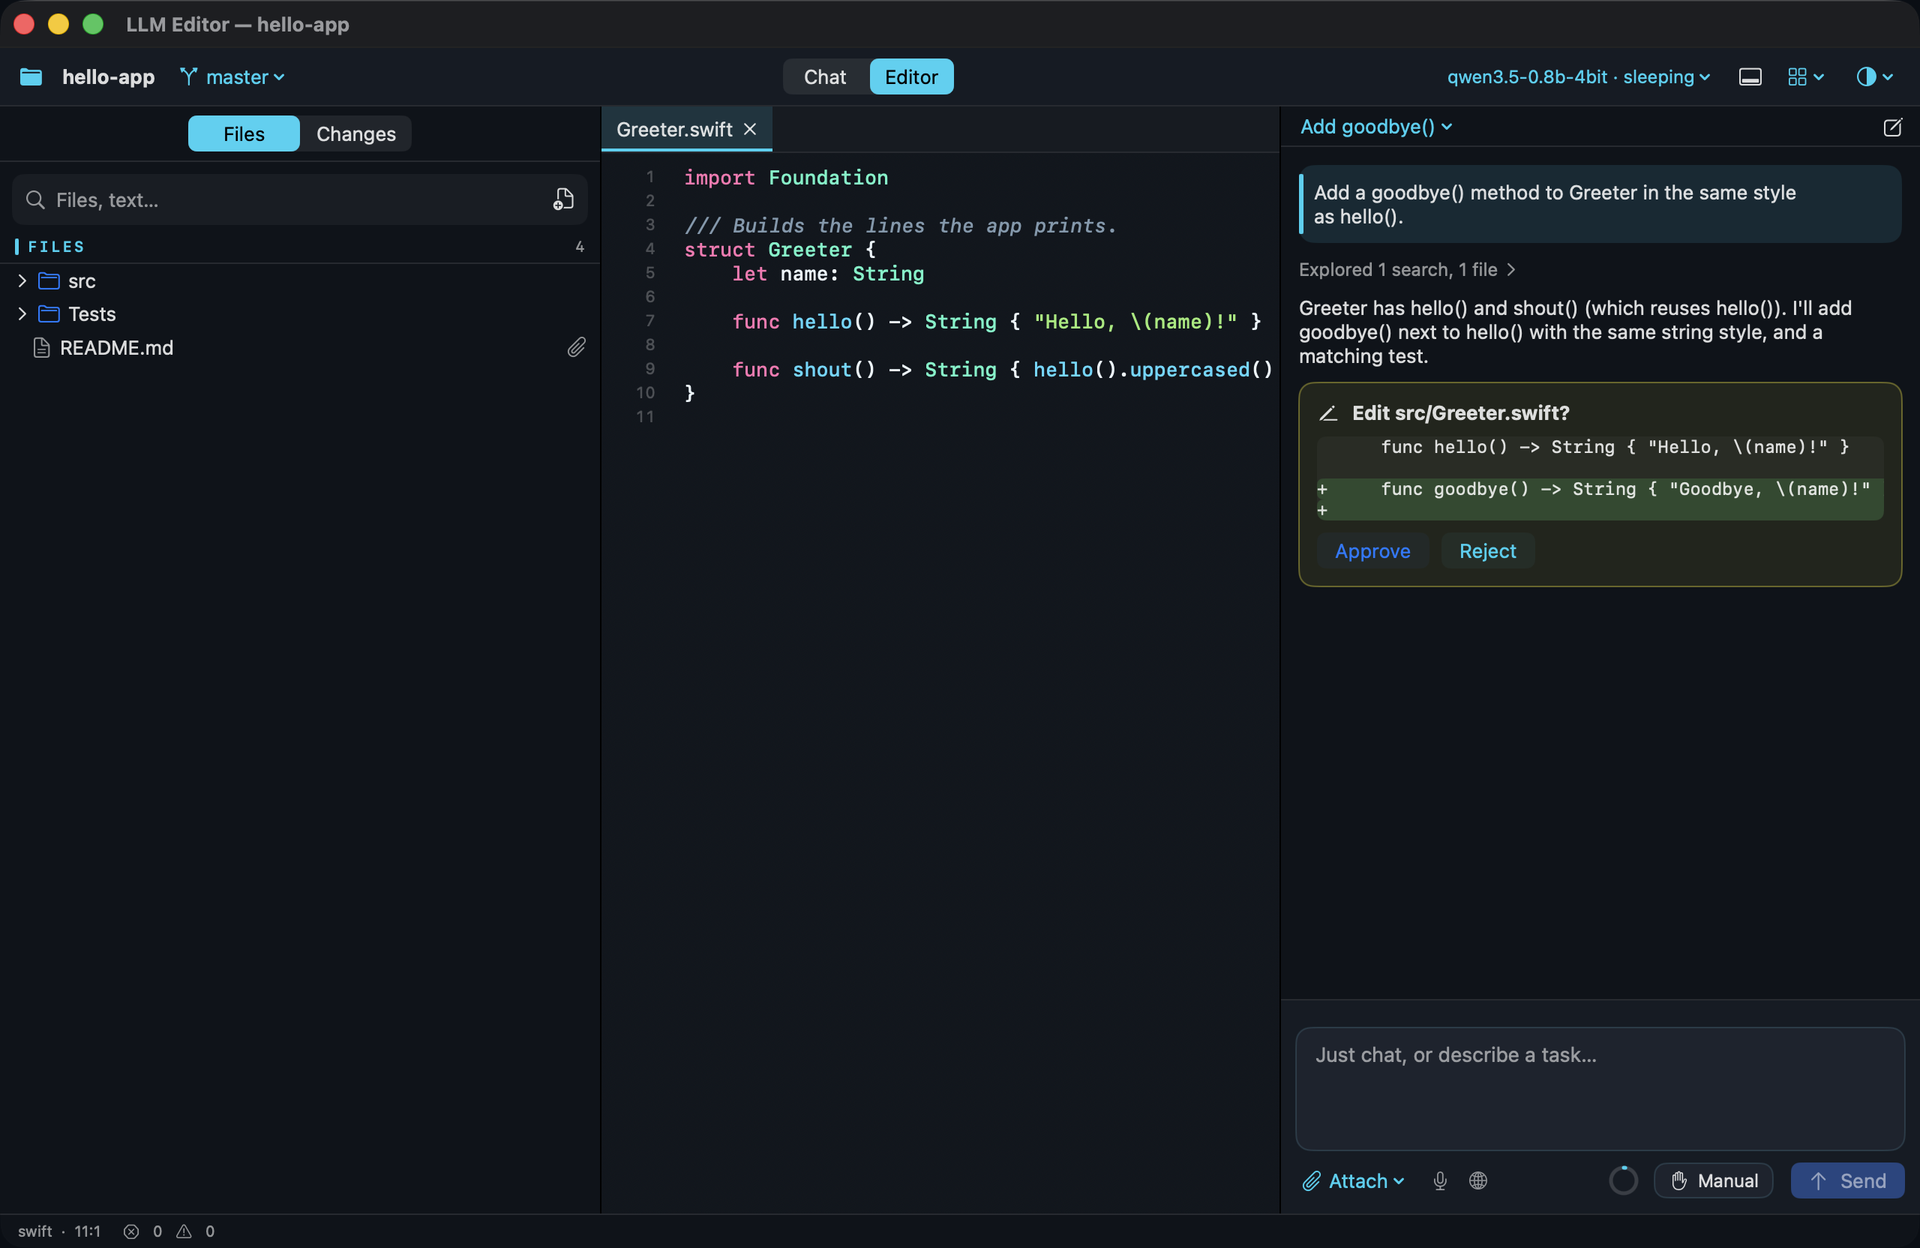
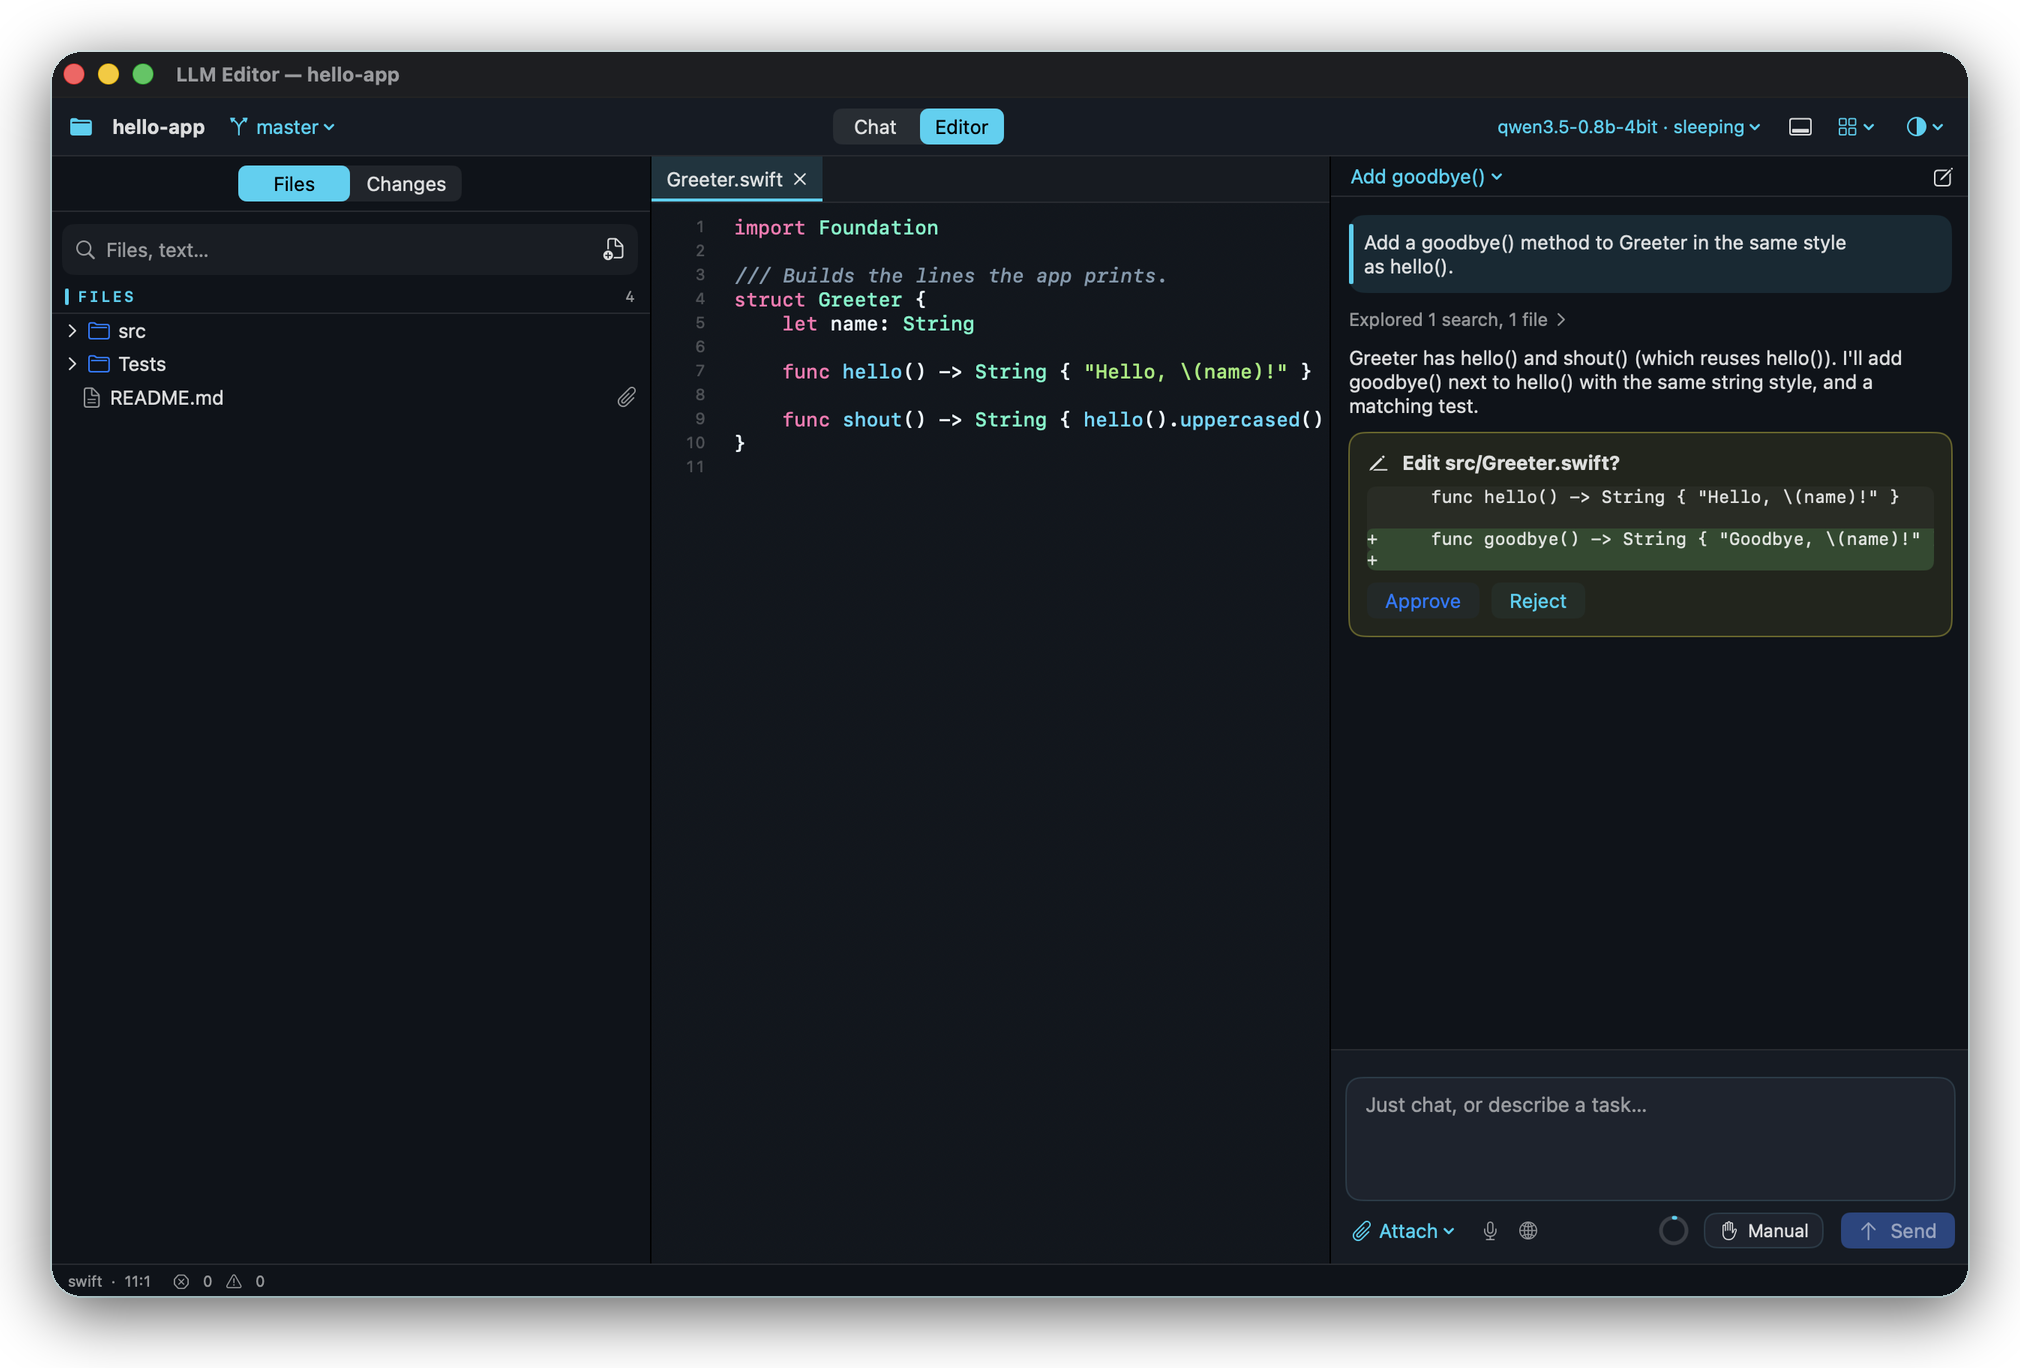
docs: fix screenshot composition and remove custom backgrounds

diff --git a/README.ru.md b/README.ru.md
@@ -13,10 +13,12 @@
 [English version](README.md)
 
 <p align="center">
-  <img src="docs/assets/screenshot-engine.png" width="210" alt="Движок в строке меню: статус, счётчик токенов, память">
-  <img src="docs/assets/screenshot-editor-ide.png" width="210" alt="Редактор кода с ассистентом">
-  <img src="docs/assets/screenshot-voice.png" width="210" alt="Голосовой чат">
-  <img src="docs/assets/screenshot-models.png" width="210" alt="Модели: установленные, поиск и загрузка">
+  <img src="docs/assets/screenshot-engine.png" width="380" alt="Движок в строке меню: статус, счётчик токенов, память">
+  <img src="docs/assets/screenshot-models.png" width="380" alt="Модели: установленные, поиск и загрузка">
+</p>
+<p align="center">
+  <img src="docs/assets/screenshot-editor-ide.png" width="450" alt="Редактор кода с ассистентом">
+  <img src="docs/assets/screenshot-voice.png" width="365" alt="Голосовой чат в тёмной и светлой темах">
 </p>
 
 ## Зачем

diff --git a/README.md b/README.md
@@ -13,10 +13,12 @@ Built and tuned for a **MacBook Air M5, 16 GB** running
 [Русская версия](README.ru.md)
 
 <p align="center">
-  <img src="docs/assets/screenshot-engine.png" width="210" alt="Menu-bar engine: status, token ledger, memory">
-  <img src="docs/assets/screenshot-editor-ide.png" width="210" alt="Code editor with the assistant">
-  <img src="docs/assets/screenshot-voice.png" width="210" alt="Voice chat">
-  <img src="docs/assets/screenshot-models.png" width="210" alt="Models: installed, hub search and download">
+  <img src="docs/assets/screenshot-engine.png" width="380" alt="Menu-bar engine: status, token ledger, memory">
+  <img src="docs/assets/screenshot-models.png" width="380" alt="Models: installed, hub search and download">
+</p>
+<p align="center">
+  <img src="docs/assets/screenshot-editor-ide.png" width="450" alt="Code editor with the assistant">
+  <img src="docs/assets/screenshot-voice.png" width="365" alt="Voice chat in dark and light themes">
 </p>
 
 ## Why
